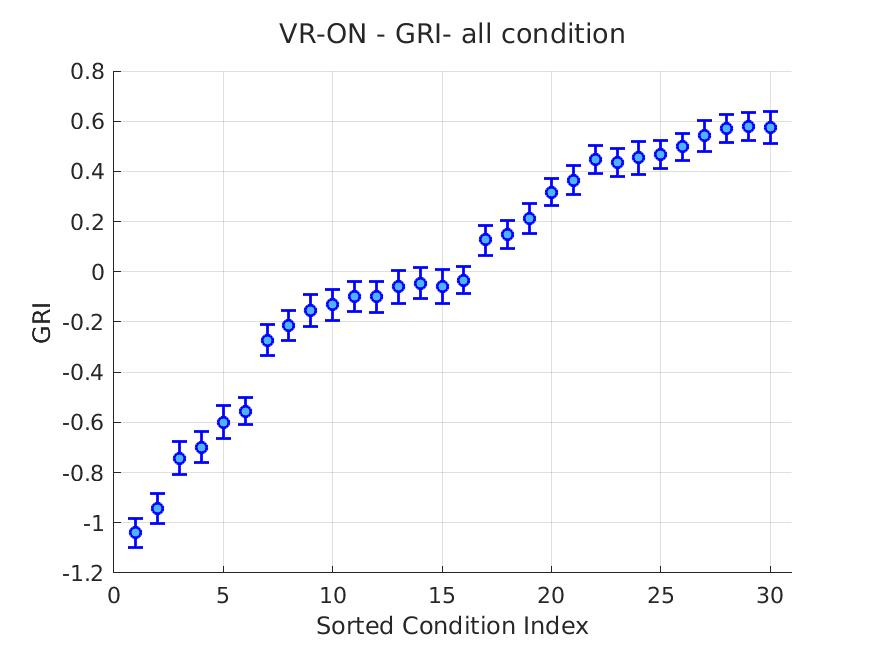
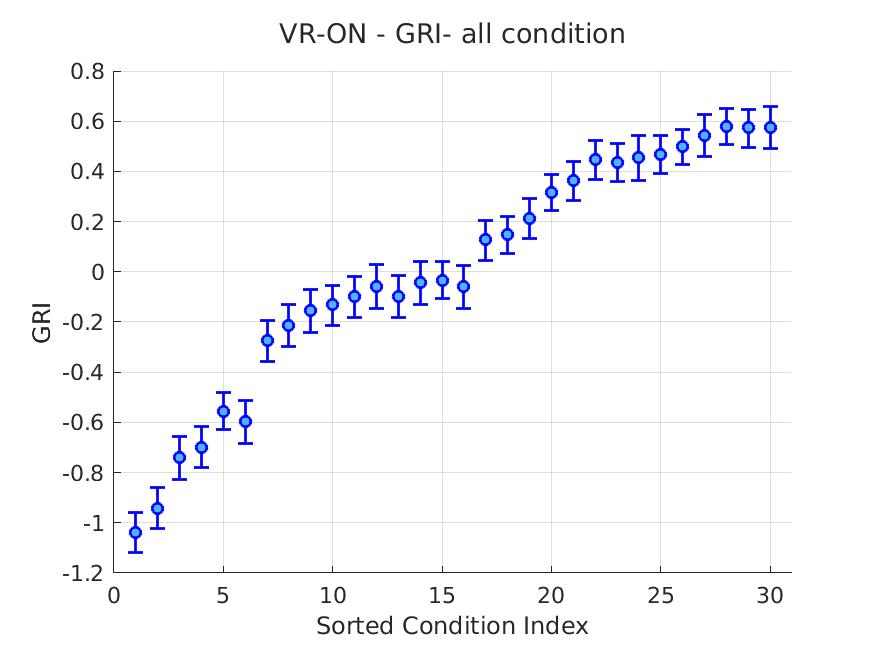
0725

diff --git a/exp3_analysis/DataAnalyzer.m b/exp3_analysis/DataAnalyzer.m
@@ -559,6 +559,9 @@ classdef DataAnalyzer < handle
                         t_significance = tiledlayout(fig_significance,1,1, 'Padding', 'normal');
                         ax_significance = nexttile(t_significance);
                         Graph_Significance(ax_significance,observed_corr, ceiling_distAA,ceiling_distAB, p_value,'Amp',plotOptions.Amp,'Title',sgTitle);
+                        y_Limits = ylim(ax_significance);
+                        x_Limits = xlim(ax_significance);
+                        text(ax_significance,x_Limits(1)*0.9,y_Limits(2)-0.05, '* : p < 0.05', 'FontSize', 10 * plotOptions.Amp);
                         
                         %% ---plot innner correlation coefficient ---
                         t_boxplot = tiledlayout(fig_boxplotA,1,1, 'Padding', 'normal');
@@ -643,6 +646,9 @@ classdef DataAnalyzer < handle
                             
                             % ---plot significance hist ---
                             Graph_Significance(ax_significance,observed_corr, ceiling_distAA,ceiling_distAB, p_value, i,'Amp',plotOptions.Amp,'Title',sgTitle);
+                            y_Limits = ylim(ax_significance);
+                            x_Limits = xlim(ax_significance);
+                            text(ax_significance,x_Limits(1)*0.9,y_Limits(2)-0.05, '* : p < 0.05', 'FontSize', 10 * plotOptions.Amp);
                             
                             % ---plot innner correlation coefficient ---
                             plotDataA_r.Original = dataA_r2;
@@ -696,7 +702,10 @@ classdef DataAnalyzer < handle
                             titlestr = sprintf("%s - %s",plotOptions.Title,string(obj.MatNames3(mat_idx)));
                             sgtitle(t_significance, titlestr, 'Interpreter', 'none');
                             Graph_Significance(ax_significance,observed_corr, ceiling_distAA,ceiling_distAB, p_value, shape,'Amp',plotOptions.Amp,'Title',sgTitle);
-
+                            y_Limits = ylim(ax_significance);
+                            x_Limits = xlim(ax_significance);
+                            text(ax_significance,x_Limits(1)*0.9,y_Limits(2)-0.05, '* : p < 0.05', 'FontSize', 10 * plotOptions.Amp);
+           
                             % ---plot innner correlation coefficient ---
                             plotDataA_r.Original = dataA_r;
                             plotDataA_r.Name = plotDataA.Name;
@@ -769,10 +778,11 @@ classdef DataAnalyzer < handle
             end
 
             % ---plot scatter ---
+            num_dims_A = ndims(plotData.Original);
             permuted_data = permute(plotData.Resampled,[1,4,2,3]);
             resampled_data_1 = reshape(permuted_data,size(permuted_data,1),[]);
             resampled_data_2 = reshape(permuted_data,size(permuted_data,1),size(permuted_data,2),[]);
-            average_data = zscore(obj.MeanArray(plotData.Original,1));
+            average_data = mean(zscore(plotData.Original, 0, 1), 2:num_dims_A);
             
             ax_boxplot = nexttile(figList.boxplot);
             plotBoxPlot(ax_boxplot,resampled_data_1,average_data,'YLabel',plotOptions.Property,'Labels',obj.HDRNum_30,'Amp',plotOptions.Amp,'Title',plotOptions.Title);

diff --git a/exp3_analysis/Corr_Significance_v3.m b/exp3_analysis/Corr_Significance_v3.m
@@ -56,14 +56,18 @@ function [ceiling_distAA, ceiling_distAB, p_value, observed_corr, all_sampled_da
         resampled_by_subj_A = resampleDimension(dataA, subject_dim_A);
         resampled_by_subj_B = resampleDimension(dataB, subject_dim_B);
         
+        num_slice = 5;
+        resampled_by_subj_A2 = extractSlices(resampled_by_subj_A,subject_dim_A,num_slice);
+        resampled_by_subj_B2 = extractSlices(resampled_by_subj_B,subject_dim_B,num_slice);
+        
         split_half_corrs_AA = zeros(num_splits, 1);
         split_half_corrs_AB = zeros(num_splits, 1);
 
         % --- 応答（試行）リサンプリング ---
         for j = 1:num_splits
             % 試行リサンプリングとパターンベクトル生成をヘルパー関数で実行
-            [pattern1_A, pattern2_A] = createPatternVectors(resampled_by_subj_A, trial_dim_A);
-            [pattern1_B, pattern2_B] = createPatternVectors(resampled_by_subj_B, trial_dim_A);
+            [pattern1_A, pattern2_A] = createPatternVectors(resampled_by_subj_A2, trial_dim_A);
+            [pattern1_B, pattern2_B] = createPatternVectors(resampled_by_subj_B2, trial_dim_A);
             
             split_half_corrs_AA(j) = corr(pattern1_A, pattern2_A);
             split_half_corrs_AB(j) = corr(pattern1_A, pattern1_B);
@@ -134,4 +138,27 @@ function resampled_data = resampleDimension(data, dim_to_resample)
     % N次元インデックスを線形インデックスに変換し、一気にデータを抽出
     linear_indices = sub2ind(data_size, indices_cell{:});
     resampled_data = data(linear_indices);
+end
+
+function extracted_data = extractSlices(data, dim, num_to_extract)
+    % 配列の特定の次元から指定した数だけ要素を抽出する関数
+
+    if num_to_extract > size(data, dim)
+        error('抽出したい数 (%d) が、指定された次元 (%d) の大きさ (%d) を超えています。', ...
+              num_to_extract, dim, size(data, dim));
+    end
+    total_slices = size(data, dim);
+
+    % 動的なインデックスの作成
+    num_dims = ndims(data);
+    idx = repmat({':'}, 1, num_dims);
+
+    % 1から次元の大きさまでの整数から、重複なしでランダムにインデックスを抽出
+    selected_indices = randperm(total_slices, num_to_extract);
+
+    % 抽出対象の次元のインデックスを、ランダムなインデックスで上書き
+    idx{dim} = selected_indices;
+
+    % インデックスを使ってデータを抽出
+    extracted_data = data(idx{:});
 end

diff --git a/exp3_analysis/Graph_Significance.m b/exp3_analysis/Graph_Significance.m
@@ -55,7 +55,7 @@ plot(ax, [x_axis-0.5, x_axis+0.5], [aveorigin, aveorigin], ...
      'k--', 'LineWidth', 1.0, 'DisplayName', 'Within-subject average');
  
 % 注釈 
-text(ax,x_Limits(1)*0.9,y_Limits(2)-0.05, '* : p < 0.05', 'FontSize', 10 * options.Amp);
+%text(ax,x_Limits(1)*0.9,y_Limits(2)-0.05, '* : p < 0.05', 'FontSize', 10 * options.Amp);
 
 %ラベル
 ylabel(ax,options.YLabel,'FontSize',12 * options.Amp);
